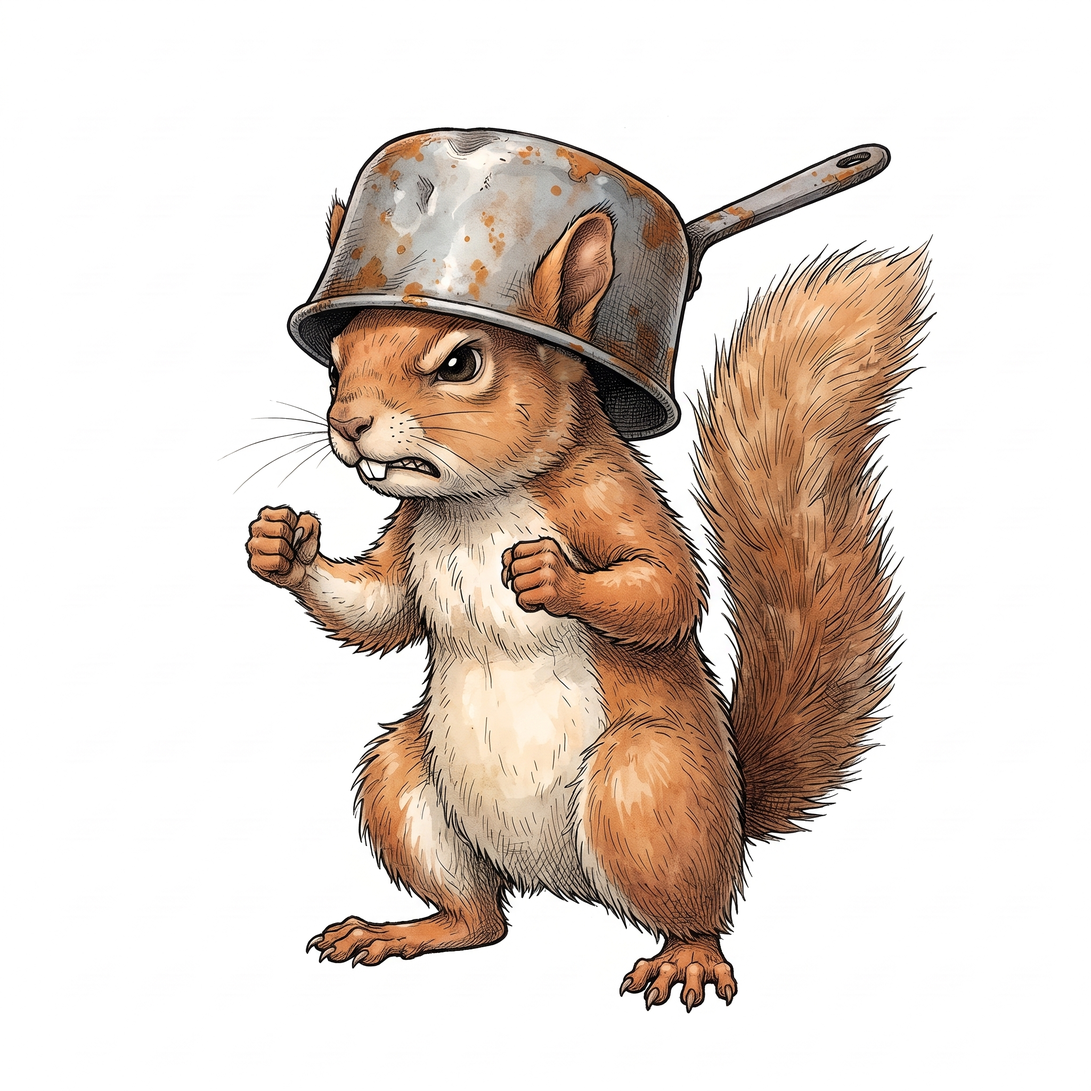
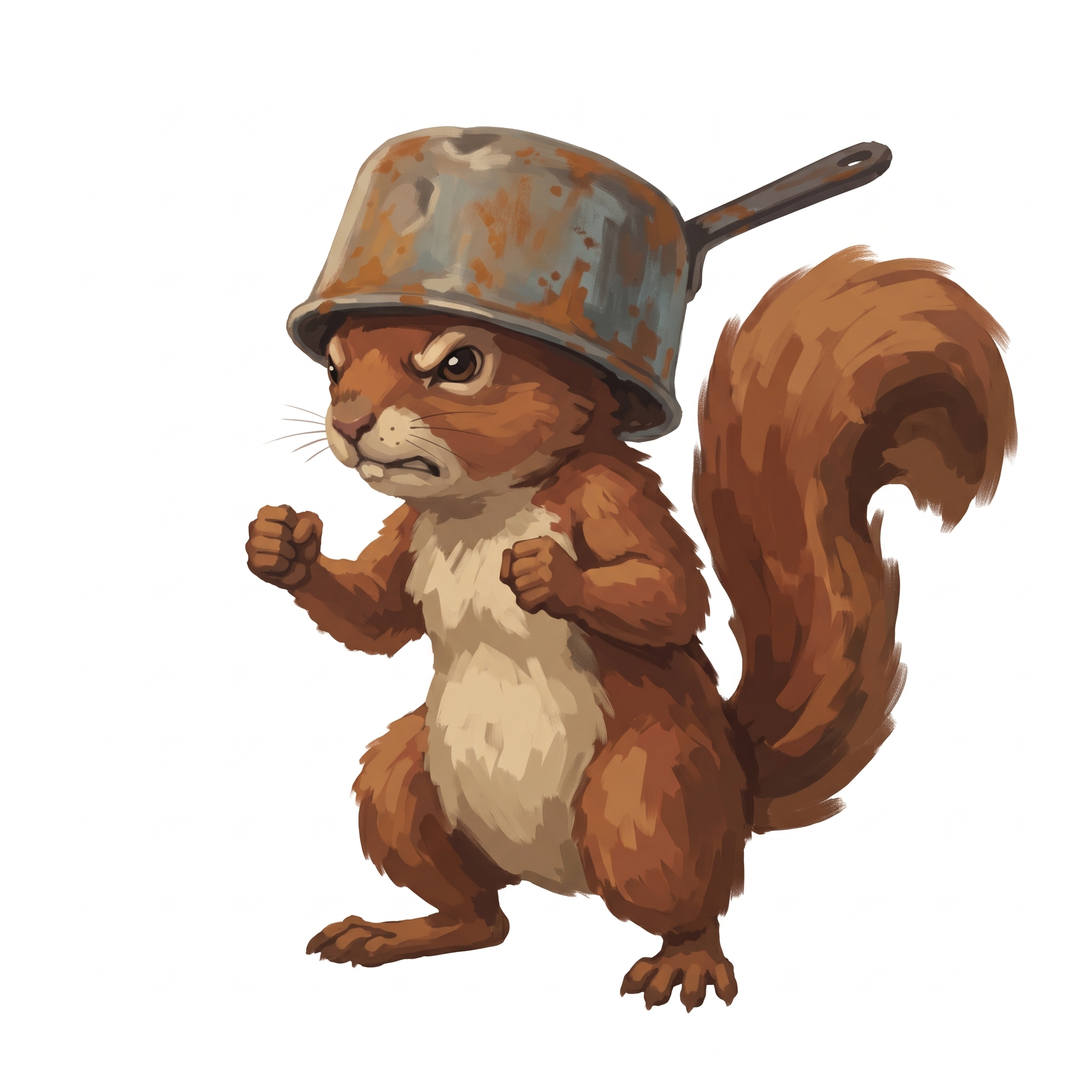
1장·2장 몬스터 20종을 확정해 art/monsters로 옮기고 옛 그림은 따로 두었다
Claude-Session: https://claude.ai/code/session_019ctizXgKMq2Zc4rqnxPXRD

diff --git a/잊혀진 기사 키우기 세계관/몬스터 도감.md b/잊혀진 기사 키우기 세계관/몬스터 도감.md
@@ -1,6 +1,6 @@
 # 몬스터 도감
 
-기준은 `가이드라인.md` 3장과 4장이다. 2026-11-18에 "포근하고 그립고 애절하게"로 결을 바꾸며 다시 짰다. 1~10장 100종 확정.
+기준은 `가이드라인.md` 3장과 4장이다. **1장과 2장 그림 20종은 2026-11-18에 확정했다(`art/monsters/`, 원본은 `art/monsters/원본/`). 옛 펜 그림은 `art/monsters/옛그림/`에 있다.** 2026-11-18에 "포근하고 그립고 애절하게"로 결을 바꾸며 다시 짰다. 1~10장 100종 확정.
 
 ## 짜는 틀
 
@@ -71,6 +71,7 @@
 8. **맺음.** 하린이 루를 돌아본다. "…근데 넌 누구였지?" 루가 다시 말해 준다. "이름을 잊어버리면 어때? 다시 물어보면 되잖아. 그럼 우리 다시 친구 하면 되겠다." 하린은 개에게도 새 이름을 지어 준다.
 
 - 루가 얻는 것: 잊힌 뒤 처음 맺은 새 인연(설정집 그대로).
+- 루의 바람개비(하늘색과 주황, 루의 두 눈 색)는 우두머리 방에서 언덕 제일 위 능선에 선다(2026-11-18 확정). 싸움 줄에는 세우지 않는다. 끝 장면에서 가장 먼저 돈다.
 - 뒤와 이어지는 곳: 서로 이름을 지어 주는 것은 8장 이름 없는 섬에서 다시 나온다. 하린은 마지막 싸움에 온다.
 
 ### 우두머리 · 바람을 삼킨 거인
